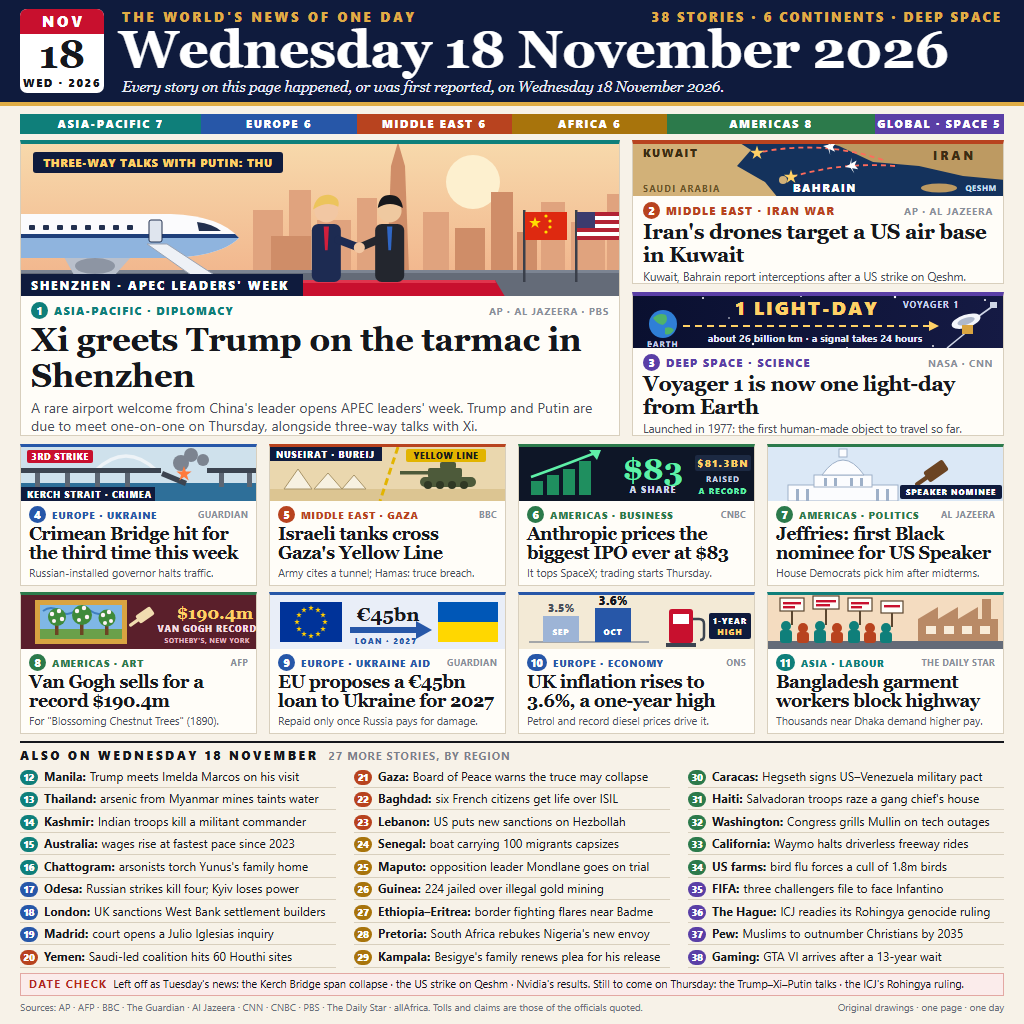
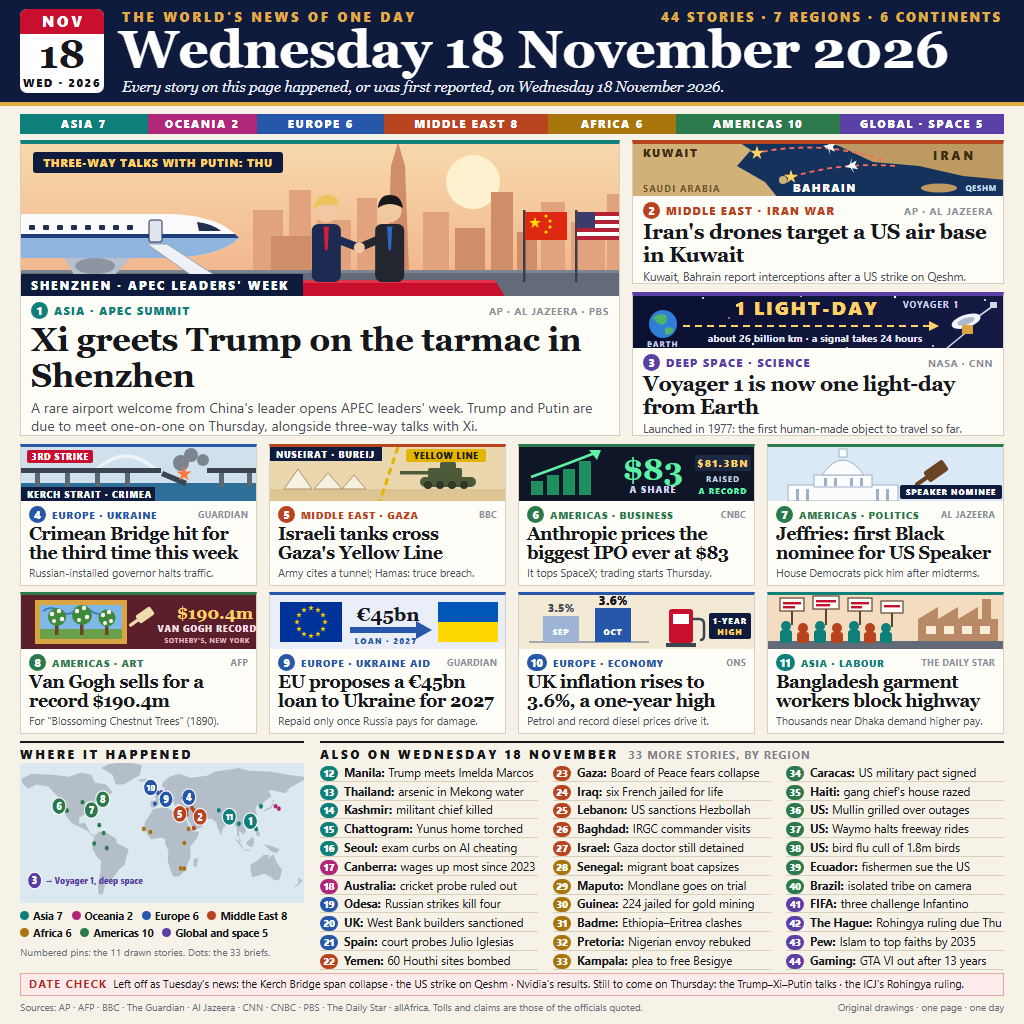
Add a hand-drawn world map, Oceania and six more dated briefs
The page now carries 44 stories in seven regions; the eleven drawn stories are
pinned on the map and each brief is dotted in its region's colour.

diff --git a/src/page.html b/src/page.html
@@ -18,6 +18,7 @@
     --africa: #a8740c;
     --americas: #2c7a4b;
     --global: #5a3fa6;
+    --oceania: #b0277a;
   }
   * { box-sizing: border-box; margin: 0; padding: 0; }
   html, body { width: 1024px; height: 1024px; overflow: hidden; }
@@ -88,13 +89,21 @@
   /* ---------- briefs ---------- */
   .briefs { position: absolute; left: 20px; top: 741px; width: 984px; height: 232px; }
   .briefs .head {
-    font-size: 12px; font-weight: 800; letter-spacing: 2.6px; border-top: 2px solid var(--ink); padding-top: 4px; height: 24px;
+    font-size: 12px; font-weight: 800; letter-spacing: 2.6px; border-top: 2px solid var(--ink); padding-top: 3px; height: 22px;
   }
   .briefs .head span { color: #7b808a; font-weight: 700; letter-spacing: 1.2px; margin-left: 10px; font-size: 10.5px; }
-  .cols { display: flex; gap: 18px; }
-  .cols ol { list-style: none; width: 316px; }
+  .briefs { display: flex; gap: 16px; }
+  .where { width: 284px; flex: none; }
+  .also { flex: 1; }
+  .legend { display: flex; flex-wrap: wrap; gap: 3px 9px; margin-top: 6px; font-size: 10.5px; font-weight: 700; line-height: 14px; }
+  .legend span { white-space: nowrap; }
+  .legend i { display: inline-block; width: 9px; height: 9px; border-radius: 5px; margin-right: 4px; }
+  .key { font-size: 10px; color: #6a6f79; margin-top: 5px; }
+  .bg-oceania { background: var(--oceania); }
+  .cols { display: flex; gap: 15px; }
+  .cols ol { list-style: none; width: 218px; }
   .cols li {
-    font-size: 12px; line-height: 15px; height: 22.5px; padding-top: 3.5px; border-bottom: 1px solid var(--rule);
+    font-size: 11.6px; line-height: 15px; height: 18.8px; padding-top: 1.8px; border-bottom: 1px solid var(--rule);
     white-space: nowrap; overflow: hidden; display: flex; align-items: baseline;
   }
   .cols li b { margin-right: 4px; }
@@ -144,18 +153,19 @@
     <div class="yr">WED · 2026</div>
   </div>
   <div class="kicker">THE WORLD'S NEWS OF ONE DAY</div>
-  <div class="count">38 STORIES · 6 CONTINENTS · DEEP SPACE</div>
+  <div class="count">44 STORIES · 7 REGIONS · 6 CONTINENTS</div>
   <h1>Wednesday 18 November 2026</h1>
   <div class="pledge">Every story on this page happened, or was first reported, on Wednesday 18 November 2026.</div>
 </div>
 
 <div class="tally">
-  <div class="bg-asia" style="flex:7">ASIA-PACIFIC 7</div>
-  <div class="bg-europe" style="flex:6">EUROPE 6</div>
-  <div class="bg-mideast" style="flex:6">MIDDLE EAST 6</div>
-  <div class="bg-africa" style="flex:6">AFRICA 6</div>
-  <div class="bg-americas" style="flex:8">AMERICAS 8</div>
-  <div class="bg-global" style="flex:5">GLOBAL · SPACE 5</div>
+  <div class="bg-asia" style="flex:7">ASIA 7</div>
+  <div class="bg-oceania" style="flex:6">OCEANIA 2</div>
+  <div class="bg-europe" style="flex:7">EUROPE 6</div>
+  <div class="bg-mideast" style="flex:9">MIDDLE EAST 8</div>
+  <div class="bg-africa" style="flex:7">AFRICA 6</div>
+  <div class="bg-americas" style="flex:9">AMERICAS 10</div>
+  <div class="bg-global" style="flex:9">GLOBAL · SPACE 5</div>
 </div>
 
 <!-- ================= lead: Shenzhen ================= -->
@@ -226,7 +236,7 @@
     <text x="137" y="34.5" font-size="10.5" font-weight="800" letter-spacing="1" fill="#ffd166" text-anchor="middle">THREE-WAY TALKS WITH PUTIN: THU</text>
   </svg>
   <div class="txt">
-    <div class="tag c-asia"><span class="num bg-asia">1</span>ASIA-PACIFIC · DIPLOMACY<span class="src">AP · AL JAZEERA · PBS</span></div>
+    <div class="tag c-asia"><span class="num bg-asia">1</span>ASIA · APEC SUMMIT<span class="src">AP · AL JAZEERA · PBS</span></div>
     <h2>Xi greets Trump on the tarmac in Shenzhen</h2>
     <p>A rare airport welcome from China's leader opens APEC leaders' week. Trump and Putin are due to meet one-on-one on Thursday, alongside three-way talks with Xi.</p>
   </div>
@@ -521,41 +531,104 @@
 
 <!-- ================= briefs ================= -->
 <div class="briefs">
-  <div class="head">ALSO ON WEDNESDAY 18 NOVEMBER<span>27 MORE STORIES, BY REGION</span></div>
-  <div class="cols">
-    <ol>
-      <li><i class="bg-asia">12</i><b>Manila:</b> Trump meets Imelda Marcos on his visit</li>
-      <li><i class="bg-asia">13</i><b>Thailand:</b> arsenic from Myanmar mines taints water</li>
-      <li><i class="bg-asia">14</i><b>Kashmir:</b> Indian troops kill a militant commander</li>
-      <li><i class="bg-asia">15</i><b>Australia:</b> wages rise at fastest pace since 2023</li>
-      <li><i class="bg-asia">16</i><b>Chattogram:</b> arsonists torch Yunus's family home</li>
-      <li><i class="bg-europe">17</i><b>Odesa:</b> Russian strikes kill four; Kyiv loses power</li>
-      <li><i class="bg-europe">18</i><b>London:</b> UK sanctions West Bank settlement builders</li>
-      <li><i class="bg-europe">19</i><b>Madrid:</b> court opens a Julio Iglesias inquiry</li>
-      <li><i class="bg-mideast">20</i><b>Yemen:</b> Saudi-led coalition hits 60 Houthi sites</li>
-    </ol>
-    <ol>
-      <li><i class="bg-mideast">21</i><b>Gaza:</b> Board of Peace warns the truce may collapse</li>
-      <li><i class="bg-mideast">22</i><b>Baghdad:</b> six French citizens get life over ISIL</li>
-      <li><i class="bg-mideast">23</i><b>Lebanon:</b> US puts new sanctions on Hezbollah</li>
-      <li><i class="bg-africa">24</i><b>Senegal:</b> boat carrying 100 migrants capsizes</li>
-      <li><i class="bg-africa">25</i><b>Maputo:</b> opposition leader Mondlane goes on trial</li>
-      <li><i class="bg-africa">26</i><b>Guinea:</b> 224 jailed over illegal gold mining</li>
-      <li><i class="bg-africa">27</i><b>Ethiopia–Eritrea:</b> border fighting flares near Badme</li>
-      <li><i class="bg-africa">28</i><b>Pretoria:</b> South Africa rebukes Nigeria's new envoy</li>
-      <li><i class="bg-africa">29</i><b>Kampala:</b> Besigye's family renews plea for his release</li>
-    </ol>
-    <ol>
-      <li><i class="bg-americas">30</i><b>Caracas:</b> Hegseth signs US–Venezuela military pact</li>
-      <li><i class="bg-americas">31</i><b>Haiti:</b> Salvadoran troops raze a gang chief's house</li>
-      <li><i class="bg-americas">32</i><b>Washington:</b> Congress grills Mullin on tech outages</li>
-      <li><i class="bg-americas">33</i><b>California:</b> Waymo halts driverless freeway rides</li>
-      <li><i class="bg-americas">34</i><b>US farms:</b> bird flu forces a cull of 1.8m birds</li>
-      <li><i class="bg-global">35</i><b>FIFA:</b> three challengers file to face Infantino</li>
-      <li><i class="bg-global">36</i><b>The Hague:</b> ICJ readies its Rohingya genocide ruling</li>
-      <li><i class="bg-global">37</i><b>Pew:</b> Muslims to outnumber Christians by 2035</li>
-      <li><i class="bg-global">38</i><b>Gaming:</b> GTA VI arrives after a 13-year wait</li>
-    </ol>
+  <!-- the map: coordinates are longitude and latitude, drawn north-up -->
+  <div class="where">
+    <div class="head">WHERE IT HAPPENED</div>
+    <svg width="284" height="140" viewBox="-170 -82 350 143" preserveAspectRatio="none">
+      <rect x="-170" y="-82" width="350" height="143" fill="#dce8f0"/>
+      <g transform="scale(1,-1)" fill="#b4bec9">
+        <polygon points="-168,66 -156,71 -130,70 -110,68 -95,72 -82,70 -78,62 -64,60 -56,52 -66,45 -70,42 -76,35 -81,31 -80,25 -83,29 -90,30 -97,26 -97,20 -90,21 -87,16 -83,10 -78,8 -80,7 -86,12 -92,15 -105,20 -110,24 -114,30 -118,34 -124,40 -124,48 -135,58 -150,60 -160,56 -166,60"/>
+        <polygon points="-52,60 -42,60 -22,70 -20,80 -40,83 -60,81 -70,77 -56,70"/>
+        <polygon points="-78,8 -72,12 -62,10 -52,5 -50,0 -36,-6 -39,-14 -41,-22 -48,-27 -57,-37 -65,-41 -68,-52 -73,-52 -74,-42 -71,-30 -70,-18 -76,-13 -81,-5 -80,1"/>
+        <polygon points="-9,37 -9,43 -2,44 -4,48 2,51 8,54 8,57 5,58 6,62 14,68 26,71 40,67 60,69 70,73 100,77 112,74 140,73 160,70 180,68 180,65 170,60 163,57 157,51 143,54 136,54 140,48 130,42 128,36 122,39 120,34 122,30 119,25 112,21 108,21 106,17 109,12 105,9 100,13 100,3 104,1 98,8 97,16 92,22 88,22 80,15 78,8 73,17 72,21 66,25 57,25 52,27 48,30 51,25 56,24 59,22 55,17 45,13 43,15 39,21 35,28 34,31 36,36 28,36 27,40 23,40 22,37 19,42 13,45 16,41 16,38 12,42 8,44 3,43 0,39 -5,36"/>
+        <polygon points="-17,15 -16,22 -10,29 -6,35 10,37 20,32 32,31 35,24 38,18 43,12 51,12 48,5 40,-3 40,-15 35,-24 32,-29 26,-34 19,-34 15,-27 12,-17 13,-8 9,-1 9,4 4,6 -8,4 -13,9"/>
+        <polygon points="114,-22 122,-18 130,-12 137,-12 136,-16 142,-11 146,-19 153,-27 150,-37 144,-38 138,-34 131,-31 124,-33 116,-35 114,-27"/>
+        <polygon points="-5,50 1,51 0,54 -2,58 -6,58 -4,54"/>
+        <polygon points="-10,52 -6,52 -6,55 -9,54"/>
+        <polygon points="-24,65 -14,66 -15,63 -22,63"/>
+        <polygon points="130,32 135,34 140,36 142,40 141,44 144,44 141,41 139,37 133,35"/>
+        <polygon points="95,5 104,-5 106,-6 100,2"/>
+        <polygon points="109,1 117,7 119,1 116,-4 110,-2"/>
+        <polygon points="106,-7 114,-8 114,-7 106,-6"/>
+        <polygon points="131,-1 141,-3 150,-6 147,-10 141,-9 134,-4"/>
+        <polygon points="120,18 122,18 126,8 122,7 120,13"/>
+        <polygon points="44,-16 50,-15 47,-25 44,-23"/>
+        <polygon points="173,-35 178,-38 175,-41 168,-46 170,-43 173,-41"/>
+      </g>
+      <!-- briefs: one dot each, in its region's colour -->
+      <g fill="#0f7f7a"><circle cx="121" cy="-14.6" r="2.4"/><circle cx="99.8" cy="-19.9" r="2.4"/><circle cx="75" cy="-33.7" r="2.4"/><circle cx="91.8" cy="-22.3" r="2.4"/><circle cx="127" cy="-37.6" r="2.4"/></g>
+      <g fill="#b0277a"><circle cx="149" cy="-35.3" r="2.4"/><circle cx="145" cy="-37.8" r="2.4"/></g>
+      <g fill="#2757a8"><circle cx="30.7" cy="-46.5" r="2.4"/><circle cx="-0.1" cy="-51.5" r="2.4"/><circle cx="-3.7" cy="-40.4" r="2.4"/></g>
+      <g fill="#b8431f"><circle cx="44.2" cy="-15.4" r="2.4"/><circle cx="34.3" cy="-31.5" r="2.4"/><circle cx="44.4" cy="-33.3" r="2.4"/><circle cx="35.5" cy="-33.9" r="2.4"/><circle cx="42" cy="-36" r="2.4"/><circle cx="35.2" cy="-29.5" r="2.4"/></g>
+      <g fill="#a8740c"><circle cx="-17.4" cy="-14.7" r="2.4"/><circle cx="32.6" cy="25.9" r="2.4"/><circle cx="-9.2" cy="-11.4" r="2.4"/><circle cx="37.8" cy="-14.7" r="2.4"/><circle cx="28.2" cy="25.7" r="2.4"/><circle cx="32.6" cy="-0.3" r="2.4"/></g>
+      <g fill="#2c7a4b"><circle cx="-66.9" cy="-10.5" r="2.4"/><circle cx="-72.3" cy="-18.5" r="2.4"/><circle cx="-77" cy="-38.9" r="2.4"/><circle cx="-112" cy="-33.4" r="2.4"/><circle cx="-93" cy="-42" r="2.4"/><circle cx="-78.5" cy="0.2" r="2.4"/><circle cx="-63" cy="5" r="2.4"/></g>
+      <g fill="#5a3fa6"><circle cx="8.5" cy="-47.4" r="2.4"/><circle cx="4.3" cy="-52.1" r="2.4"/></g>
+      <!-- the eleven drawn stories: numbered pins -->
+      <g font-size="11.4" font-weight="800" text-anchor="middle" fill="#fff" stroke-width="1.2">
+        <g transform="translate(114,-22.5)"><circle r="8.6"fill="#0f7f7a" stroke="#fff"/><text y="3.9">1</text></g>
+        <g transform="translate(52,-27)"><circle r="8.6"fill="#b8431f" stroke="#fff"/><text y="3.9">2</text></g>
+        <g transform="translate(38,-47)"><circle r="8.6"fill="#2757a8" stroke="#fff"/><text y="3.9">4</text></g>
+        <g transform="translate(27,-30)"><circle r="8.6"fill="#b8431f" stroke="#fff"/><text y="3.9">5</text></g>
+        <g transform="translate(-122,-38)"><circle r="8.6"fill="#2c7a4b" stroke="#fff"/><text y="3.9">6</text></g>
+        <g transform="translate(-82,-34)"><circle r="8.6"fill="#2c7a4b" stroke="#fff"/><text y="3.9">7</text></g>
+        <g transform="translate(-68,-45)"><circle r="8.6"fill="#2c7a4b" stroke="#fff"/><text y="3.9">8</text></g>
+        <g transform="translate(10,-45)"><circle r="8.6"fill="#2757a8" stroke="#fff"/><text y="3.9">9</text></g>
+        <g transform="translate(-9,-57)"><circle r="8.6"fill="#2757a8" stroke="#fff"/><text y="3.5" font-size="9.4">10</text></g>
+        <g transform="translate(88,-27)"><circle r="8.6"fill="#0f7f7a" stroke="#fff"/><text y="3.5" font-size="9.4">11</text></g>
+        <g transform="translate(-152,38)"><circle r="8.6"fill="#5a3fa6" stroke="#fff"/><text y="3.9">3</text></g>
+      </g>
+      <text x="-139" y="42" font-size="10" font-weight="800" fill="#5a3fa6">→ Voyager 1, deep space</text>
+    </svg>
+    <div class="legend">
+      <span><i class="bg-asia"></i>Asia 7</span><span><i class="bg-oceania"></i>Oceania 2</span><span><i class="bg-europe"></i>Europe 6</span>
+      <span><i class="bg-mideast"></i>Middle East 8</span><span><i class="bg-africa"></i>Africa 6</span><span><i class="bg-americas"></i>Americas 10</span>
+      <span><i class="bg-global"></i>Global and space 5</span>
+    </div>
+    <div class="key">Numbered pins: the 11 drawn stories. Dots: the 33 briefs.</div>
+  </div>
+  <div class="also">
+    <div class="head">ALSO ON WEDNESDAY 18 NOVEMBER<span>33 MORE STORIES, BY REGION</span></div>
+    <div class="cols">
+      <ol>
+        <li><i class="bg-asia">12</i><b>Manila:</b> Trump meets Imelda Marcos</li>
+        <li><i class="bg-asia">13</i><b>Thailand:</b> arsenic in Mekong water</li>
+        <li><i class="bg-asia">14</i><b>Kashmir:</b> militant chief killed</li>
+        <li><i class="bg-asia">15</i><b>Chattogram:</b> Yunus home torched</li>
+        <li><i class="bg-asia">16</i><b>Seoul:</b> exam curbs on AI cheating</li>
+        <li><i class="bg-oceania">17</i><b>Canberra:</b> wages up most since 2023</li>
+        <li><i class="bg-oceania">18</i><b>Australia:</b> cricket probe ruled out</li>
+        <li><i class="bg-europe">19</i><b>Odesa:</b> Russian strikes kill four</li>
+        <li><i class="bg-europe">20</i><b>UK:</b> West Bank builders sanctioned</li>
+        <li><i class="bg-europe">21</i><b>Spain:</b> court probes Julio Iglesias</li>
+        <li><i class="bg-mideast">22</i><b>Yemen:</b> 60 Houthi sites bombed</li>
+      </ol>
+      <ol>
+        <li><i class="bg-mideast">23</i><b>Gaza:</b> Board of Peace fears collapse</li>
+        <li><i class="bg-mideast">24</i><b>Iraq:</b> six French jailed for life</li>
+        <li><i class="bg-mideast">25</i><b>Lebanon:</b> US sanctions Hezbollah</li>
+        <li><i class="bg-mideast">26</i><b>Baghdad:</b> IRGC commander visits</li>
+        <li><i class="bg-mideast">27</i><b>Israel:</b> Gaza doctor still detained</li>
+        <li><i class="bg-africa">28</i><b>Senegal:</b> migrant boat capsizes</li>
+        <li><i class="bg-africa">29</i><b>Maputo:</b> Mondlane goes on trial</li>
+        <li><i class="bg-africa">30</i><b>Guinea:</b> 224 jailed for gold mining</li>
+        <li><i class="bg-africa">31</i><b>Badme:</b> Ethiopia–Eritrea clashes</li>
+        <li><i class="bg-africa">32</i><b>Pretoria:</b> Nigerian envoy rebuked</li>
+        <li><i class="bg-africa">33</i><b>Kampala:</b> plea to free Besigye</li>
+      </ol>
+      <ol>
+        <li><i class="bg-americas">34</i><b>Caracas:</b> US military pact signed</li>
+        <li><i class="bg-americas">35</i><b>Haiti:</b> gang chief's house razed</li>
+        <li><i class="bg-americas">36</i><b>US:</b> Mullin grilled over outages</li>
+        <li><i class="bg-americas">37</i><b>US:</b> Waymo halts freeway rides</li>
+        <li><i class="bg-americas">38</i><b>US:</b> bird flu cull of 1.8m birds</li>
+        <li><i class="bg-americas">39</i><b>Ecuador:</b> fishermen sue the US</li>
+        <li><i class="bg-americas">40</i><b>Brazil:</b> isolated tribe on camera</li>
+        <li><i class="bg-global">41</i><b>FIFA:</b> three challenge Infantino</li>
+        <li><i class="bg-global">42</i><b>The Hague:</b> Rohingya ruling due Thu</li>
+        <li><i class="bg-global">43</i><b>Pew:</b> Islam to top faiths by 2035</li>
+        <li><i class="bg-global">44</i><b>Gaming:</b> GTA VI out after 13 years</li>
+      </ol>
+    </div>
   </div>
 </div>
 

diff --git a/SOURCES.md b/SOURCES.md
@@ -21,35 +21,46 @@ Every story on the page was checked against at least one report dated 18 Novembe
 
 ## Briefs
 
-| # | Story | Checked against |
-| --- | --- | --- |
-| 12 | Trump meets Imelda Marcos during his Philippines visit | Al Jazeera |
-| 13 | Arsenic linked to Myanmar mining taints water in northern Thailand | Al Jazeera |
-| 14 | Indian forces kill a Lashkar-e-Taiba commander in Kulgam, Kashmir | AP |
-| 15 | Australian wages grow at their fastest pace since 2023 | The Guardian |
-| 16 | Arsonists set fire to Muhammad Yunus's ancestral home in Chattogram | The Daily Star |
-| 17 | Russian strikes kill at least four in Odesa; power cuts in Kyiv | Al Jazeera, The Guardian |
-| 18 | UK sanctions firms building in the West Bank's E1 settlement area | The Guardian |
-| 19 | Spanish court opens an investigation into Julio Iglesias | The Guardian |
-| 20 | Saudi-led coalition says it struck 60 Houthi military sites in Yemen | Al Jazeera |
-| 21 | Board of Peace warns the Gaza ceasefire could collapse | Al Jazeera |
-| 22 | Iraq sentences six French nationals to life for joining ISIL | Al Jazeera |
-| 23 | US announces new sanctions on Hezbollah | Al Jazeera |
-| 24 | Migrant boat with about 100 people aboard capsizes off Yenne, Senegal | AFP via Al Jazeera |
-| 25 | Mozambican opposition leader Venancio Mondlane goes on trial | allAfrica, Al Jazeera |
-| 26 | Guinea jails 224 people over illegal gold mining | allAfrica |
-| 27 | Fighting flares on the Ethiopia-Eritrea border near Badme | allAfrica |
-| 28 | South Africa reprimands Nigeria's new high commissioner | allAfrica |
-| 29 | Kizza Besigye's family renews its call for his release in Uganda | allAfrica |
-| 30 | Pete Hegseth announces a US-Venezuela military agreement in Caracas | Al Jazeera, AP |
-| 31 | Salvadoran forces destroy a gang leader's house in Canaan, Haiti | AP |
-| 32 | US lawmakers question Homeland Security Secretary Mullin on tech outages | AP, PBS News Hour |
-| 33 | Waymo suspends driverless freeway rides after a California ban | Al Jazeera |
-| 34 | Largest US egg producer to cull 1.8 million birds after bird flu | Al Jazeera |
-| 35 | FIFA nominations close with three challengers to Gianni Infantino | Al Jazeera |
-| 36 | ICJ prepares to rule on the Rohingya genocide case on Thursday | The Guardian, Al Jazeera |
-| 37 | Pew projects Muslims will outnumber Christians by 2035 | Al Jazeera, AP |
-| 38 | Grand Theft Auto VI arrives after a 13-year wait | AP |
+| # | Region | Story | Checked against |
+| --- | --- | --- | --- |
+| 12 | Asia | Trump meets Imelda Marcos during his Philippines visit | Al Jazeera |
+| 13 | Asia | Arsenic linked to Myanmar mining taints Mekong water in northern Thailand | Al Jazeera |
+| 14 | Asia | Indian forces kill a Lashkar-e-Taiba commander in Kulgam, Kashmir | AP |
+| 15 | Asia | Arsonists set fire to Muhammad Yunus's ancestral home in Chattogram | The Daily Star |
+| 16 | Asia | South Korea tightens university entrance exam rules against AI cheating | The Guardian |
+| 17 | Oceania | Australian wages grow at their fastest pace since 2023 | The Guardian |
+| 18 | Oceania | Cricket Australia rules out a new "Sandpapergate" investigation | Al Jazeera |
+| 19 | Europe | Russian strikes kill at least four in Odesa | Al Jazeera, The Guardian |
+| 20 | Europe | UK sanctions firms building in the West Bank's E1 settlement area | The Guardian |
+| 21 | Europe | Spanish court opens an investigation into Julio Iglesias | The Guardian |
+| 22 | Middle East | Saudi-led coalition says it struck 60 Houthi military sites in Yemen | Al Jazeera |
+| 23 | Middle East | Board of Peace warns the Gaza ceasefire could collapse | Al Jazeera |
+| 24 | Middle East | Iraq sentences six French nationals to life for joining ISIL | Al Jazeera |
+| 25 | Middle East | US announces new sanctions on Hezbollah | Al Jazeera |
+| 26 | Middle East | A senior IRGC commander visits Baghdad for talks | Al Jazeera |
+| 27 | Middle East | Israeli court extends the detention of Gaza doctor Hussam Abu Safia | Al Jazeera |
+| 28 | Africa | Migrant boat with about 100 people aboard capsizes off Yenne, Senegal | AFP via Al Jazeera |
+| 29 | Africa | Mozambican opposition leader Venancio Mondlane goes on trial | allAfrica, Al Jazeera |
+| 30 | Africa | Guinea jails 224 people over illegal gold mining | allAfrica |
+| 31 | Africa | Fighting flares on the Ethiopia-Eritrea border near Badme | allAfrica |
+| 32 | Africa | South Africa reprimands Nigeria's new high commissioner | allAfrica |
+| 33 | Africa | Kizza Besigye's family renews its call for his release in Uganda | allAfrica |
+| 34 | Americas | Pete Hegseth announces a US-Venezuela military agreement in Caracas | Al Jazeera, AP |
+| 35 | Americas | Salvadoran forces destroy a gang leader's house in Canaan, Haiti | AP |
+| 36 | Americas | US lawmakers question Homeland Security Secretary Mullin on tech outages | AP, PBS News Hour |
+| 37 | Americas | Waymo suspends driverless freeway rides after a California ban | Al Jazeera |
+| 38 | Americas | Largest US egg producer to cull 1.8 million birds after bird flu | Al Jazeera |
+| 39 | Americas | Ecuadorian fishermen sue the US administration over a drone strike | Al Jazeera |
+| 40 | Americas | Rare images show an isolated Indigenous group in Brazil's Amazon | Al Jazeera, AP |
+| 41 | Global | FIFA nominations close with three challengers to Gianni Infantino | Al Jazeera |
+| 42 | Global | ICJ prepares to rule on the Rohingya genocide case on Thursday | The Guardian, Al Jazeera |
+| 43 | Global | Pew projects Islam will be the world's largest religion by 2035 | Al Jazeera, AP |
+| 44 | Global | Grand Theft Auto VI arrives after a 13-year wait | AP |
+
+## The map
+
+The map on the page is drawn by hand from longitude and latitude points in `src/page.html`.
+Numbered pins mark the eleven drawn stories; one dot marks each brief, in its region's colour.
 
 ## Left off the page
 

diff --git a/README.md b/README.md
@@ -4,7 +4,7 @@
 [![rank](https://make.fun/badge/news-image-20261118/BrotherMus/day-on-a-page-20261118/rank.svg)](https://make.fun/bounty/news-image-20261118/leaderboard?utm_source=github&utm_medium=readme&utm_campaign=news-image-20261118)
 [![reward](https://make.fun/badge/news-image-20261118/BrotherMus/day-on-a-page-20261118/reward.svg)](https://make.fun/bounty/news-image-20261118?utm_source=github&utm_medium=readme&utm_campaign=news-image-20261118)
 
-One image that sums up the world's news of Wednesday 18 November 2026 as a newspaper front page: 38 stories from six continents and deep space, eleven of them drawn, each one checked against a report dated that day. The page is hand-written HTML and SVG (`src/page.html`), rendered once to `entry.png`; the entry program checks that file and writes it to the grader's output folder.
+One image that sums up the world's news of Wednesday 18 November 2026 as a newspaper front page: 44 stories from seven regions, six continents and deep space, eleven of them drawn and pinned on a hand-drawn world map, each one checked against a report dated that day. The page is hand-written HTML and SVG (`src/page.html`), rendered once to `entry.png`; the entry program checks that file and writes it to the grader's output folder.
 
 ![The day on a page: Wednesday 18 November 2026](entry.png)
 
@@ -31,7 +31,7 @@ python build.py --preview
 
 ## Choosing the stories
 
-The rule for the page is the bounty's own: a story is in only if it happened, or was first reported, on 18 November 2026. Three stories lead because they were the day's most consequential in diplomacy, war and science; eight more are drawn to cover Europe, the Middle East, the Americas and Asia across politics, business, art, the economy and labour; 27 briefs fill in the rest, grouped by region. News that broke on Tuesday (the Kerch Bridge span collapse, the US strike on Qeshm) or that was still to come on Thursday (the three-way summit, the ICJ ruling) is named in the page's date check rather than shown as Wednesday's.
+The rule for the page is the bounty's own: a story is in only if it happened, or was first reported, on 18 November 2026. Three stories lead because they were the day's most consequential in diplomacy, war and science; eight more are drawn to cover Europe, the Middle East, the Americas and Asia across politics, business, art, the economy and labour; 33 briefs fill in the rest, grouped by region and dotted on the map. News that broke on Tuesday (the Kerch Bridge span collapse, the US strike on Qeshm) or that was still to come on Thursday (the three-way summit, the ICJ ruling) is named in the page's date check rather than shown as Wednesday's.
 
 ---
 
